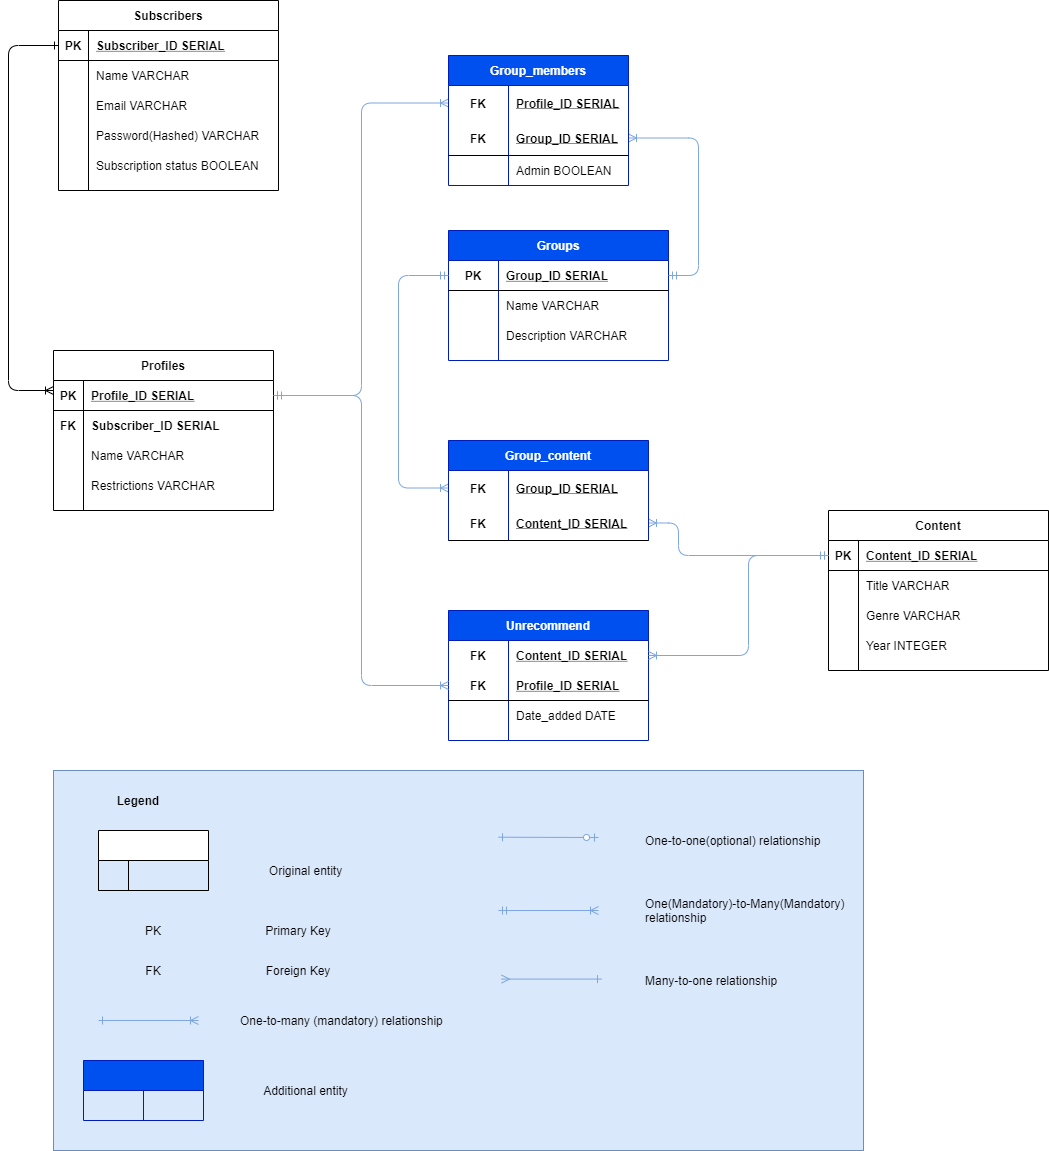
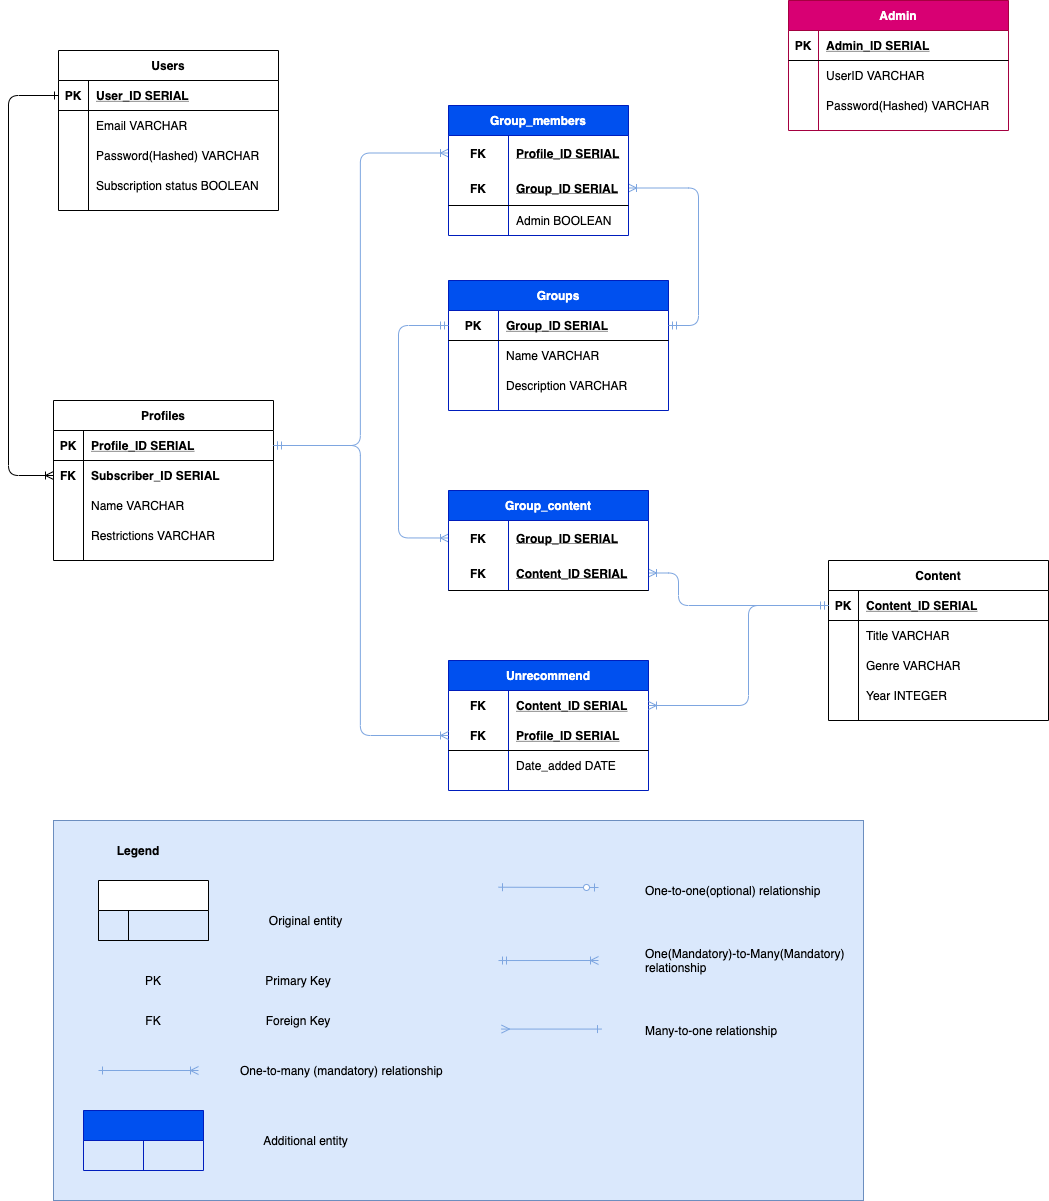
added get user logic in admin_controller.py, updated readme, added adminuserschema

diff --git a/src/controllers/admin_controller.py b/src/controllers/admin_controller.py
@@ -1,9 +1,12 @@
 from models.Admin import Admin
-from schemas.AdminSchema import admin_schema
+from models.User import User
+from models.Profile import Profile
+from schemas.AdminSchema import admin_schema, admin_users_schema
 from main import bcrypt
 from datetime import timedelta
-from flask_jwt_extended import create_access_token  # jwt_required
+from flask_jwt_extended import create_access_token, jwt_required, get_jwt_identity      # noqa: E501
 from flask import Blueprint, request, jsonify, abort
+from sqlalchemy import func
 
 admin = Blueprint("admin", __name__, url_prefix="/admin")
 
@@ -12,7 +15,7 @@ admin = Blueprint("admin", __name__, url_prefix="/admin")
 def admin_login():
     admin_fields = admin_schema.load(request.json)
 
-    admin = Admin.query.filter_by(email=admin_fields["username"]).first()
+    admin = Admin.query.filter_by(username=admin_fields["username"]).first()
 
     if not admin or not bcrypt.check_password_hash(
             admin.password, admin_fields["password"]):
@@ -23,3 +26,24 @@ def admin_login():
         identity=str(admin.admin_id), expires_delta=expiry)
 
     return jsonify({"token": access_token})
+
+
+@admin.route("/users", methods=["GET"])
+@jwt_required
+def get_users():
+    admin_id = get_jwt_identity()
+
+    admin = Admin.query.get(admin_id)
+
+    if not admin:
+        return abort(401, description="Invalid admin user")
+
+    query = User.query.with_entities(
+        User.email, func.count(Profile.profile_id).label(
+            'profile_count')).outerjoin(Profile).group_by(
+                User.email).order_by(User.email)
+    # SELECT users.email AS users_email, count(profiles.profile_id)
+    # AS profile_count
+    # FROM users LEFT OUTER JOIN profiles ON users.user_id = profiles.user_id
+    # GROUP BY users.email ORDER BY users.email
+    return jsonify(admin_users_schema.dump(query))

diff --git a/src/schemas/AdminSchema.py b/src/schemas/AdminSchema.py
@@ -14,3 +14,12 @@ class AdminSchema(ma.SQLAlchemyAutoSchema):
 
 admin_schema = AdminSchema()
 admins_schema = AdminSchema(many=True)
+
+
+class AdminUserSchema(ma.Schema):
+    email = ma.Email()
+    profile_count = ma.Integer()
+
+
+admin_user_schema = AdminUserSchema()
+admin_users_schema = AdminUserSchema(many=True)

diff --git a/README.md b/README.md
@@ -37,3 +37,5 @@ Password hash not returned during schema serialisation
 Use token authentication (expiry 1 day)
 Token generation process using JWT where secret key is stored and retrieved from environment variables during production(diff from development key)
 User authorisation implemented to perform CRUD actions on user owned profiles only
+Separate logins to admin interface (separate endpoints)
+Require business end to manage admin accounts - account creation, deletion and further segregation of responsibilities within admin accounts if possible considering security factors.
